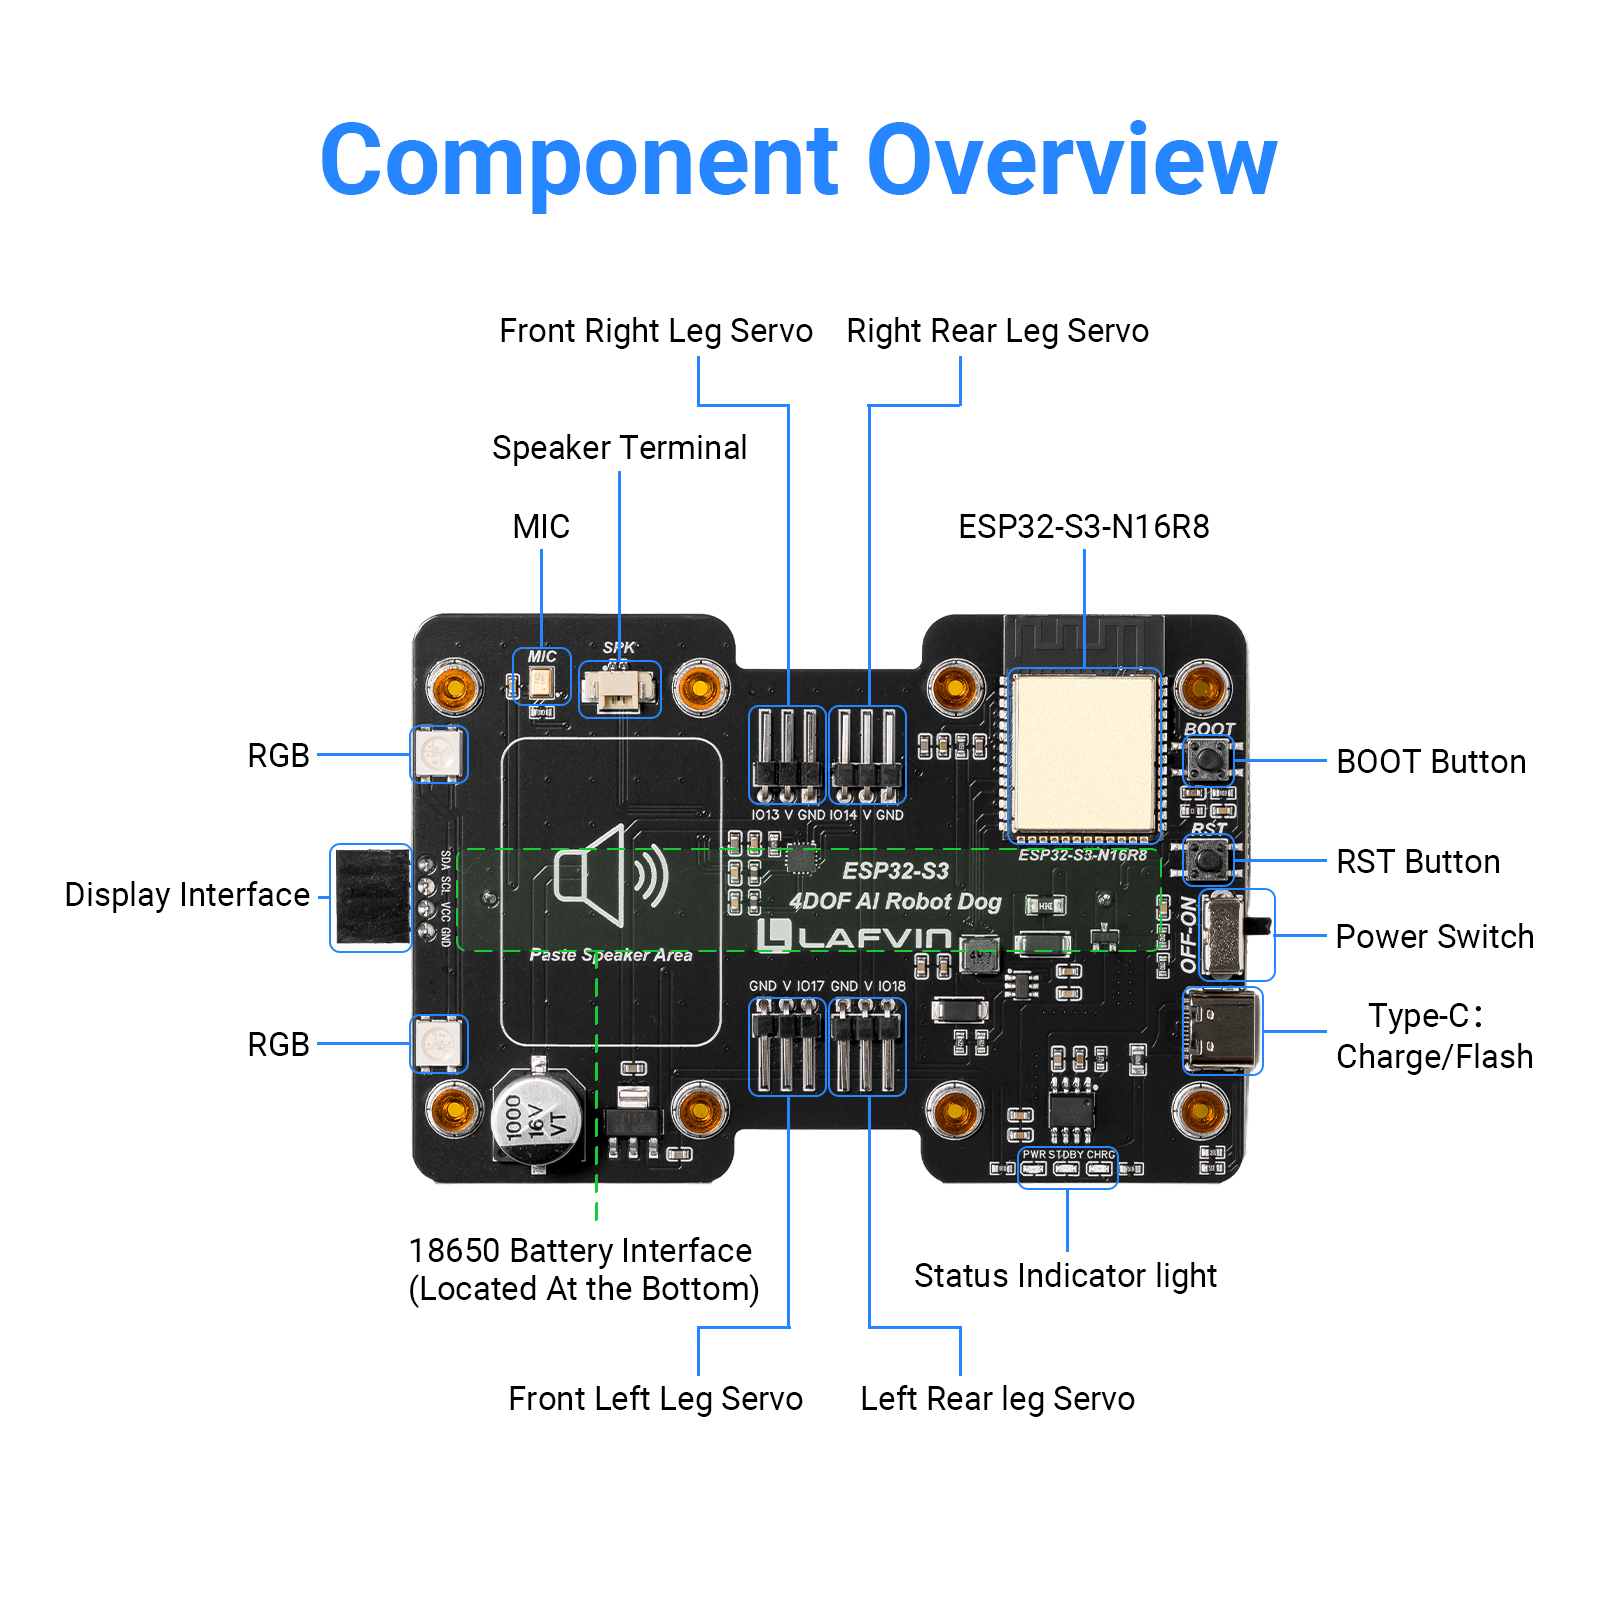
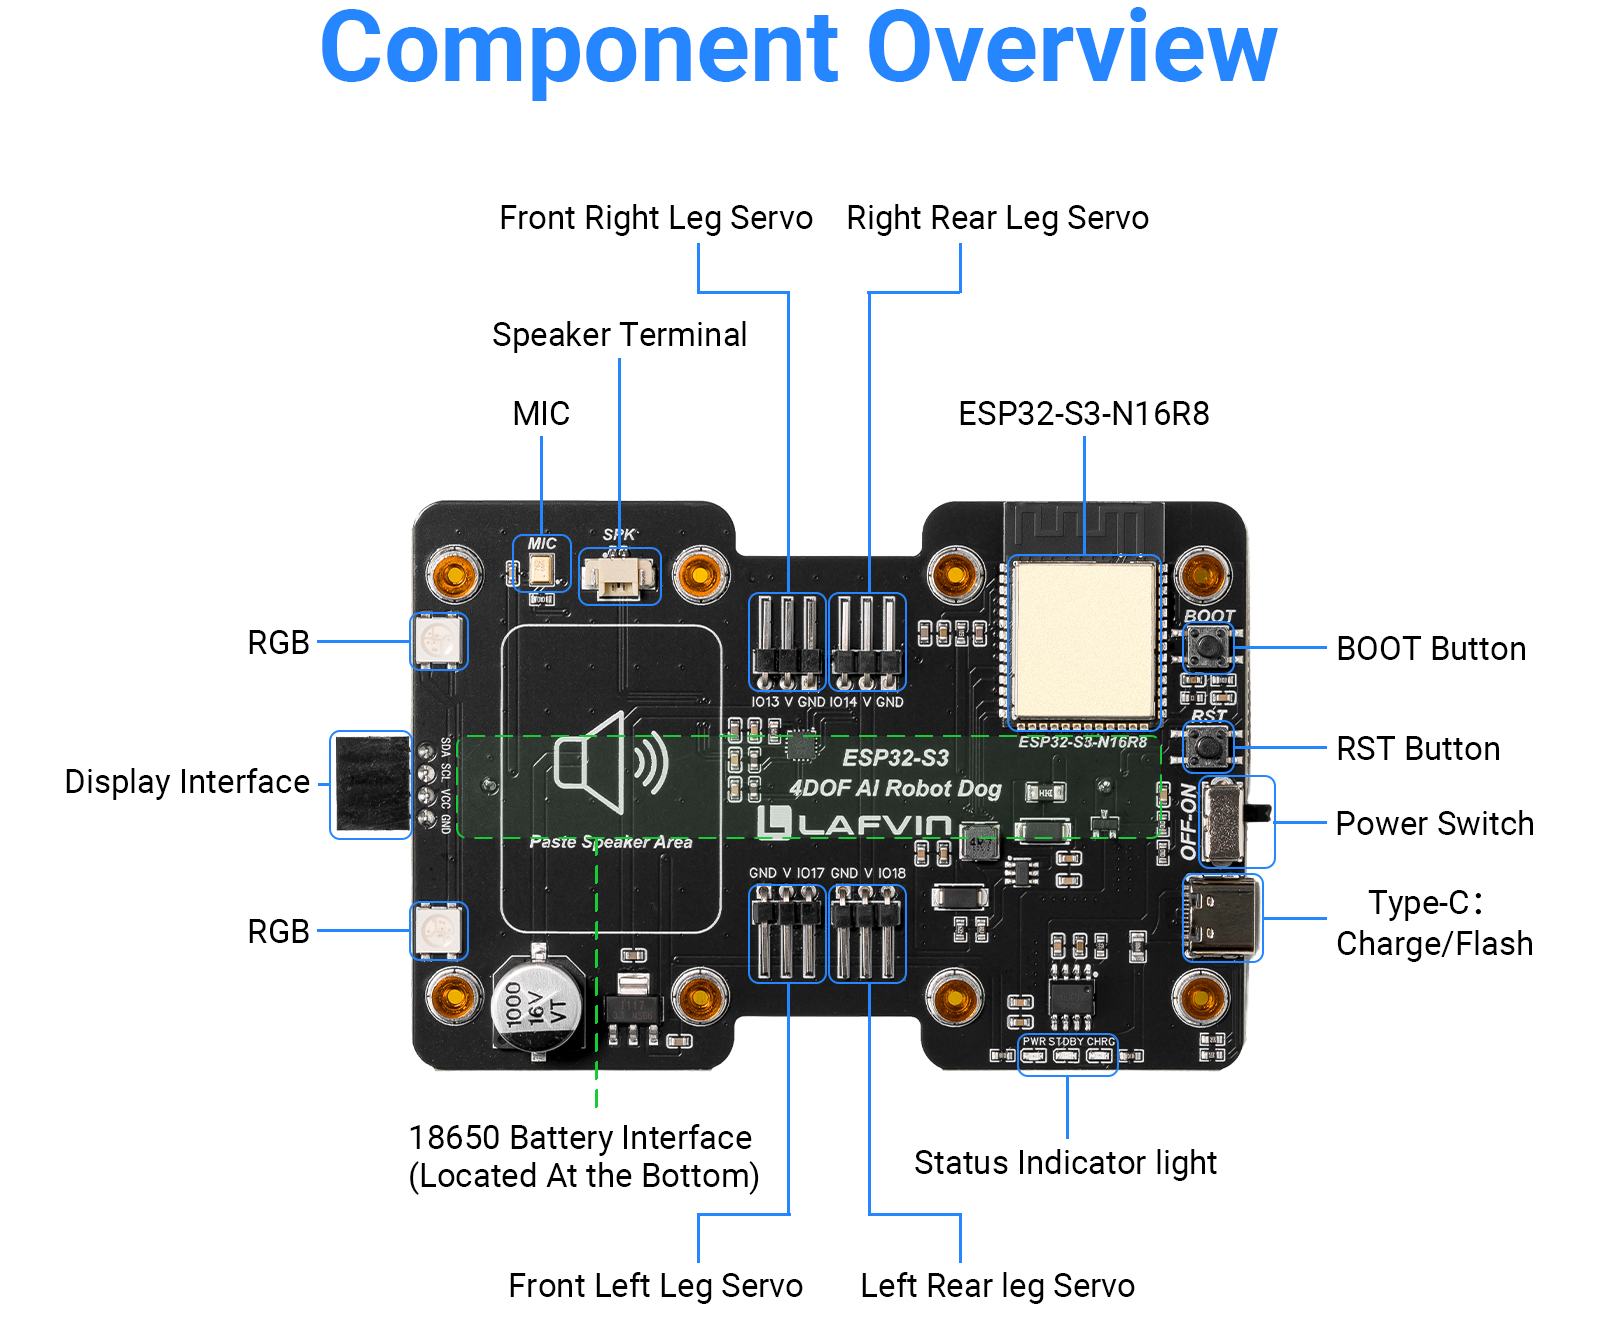
1

diff --git a/docs/source/Introduction.rst b/docs/source/Introduction.rst
@@ -98,14 +98,6 @@ Bill of Materials
 Technical Parameters
 --------------------
 
-.. image:: _static/Introduction/3.PCB.png
-   :width: 600
-   :align: center
-
-.. raw:: html
-
-   <div style="margin-top: 30px;"></div>
-
 .. list-table:: 
    :header-rows: 1
    :widths: 20 30
@@ -136,6 +128,14 @@ Technical Parameters
 
 GPIO Pin Mapping
 -----------------
+
+.. image:: _static/Introduction/3.PCB.png
+   :width: 800
+   :align: center
+
+.. raw:: html
+
+   <div style="margin-top: 30px;"></div>
 
 .. list-table:: 
    :header-rows: 1
